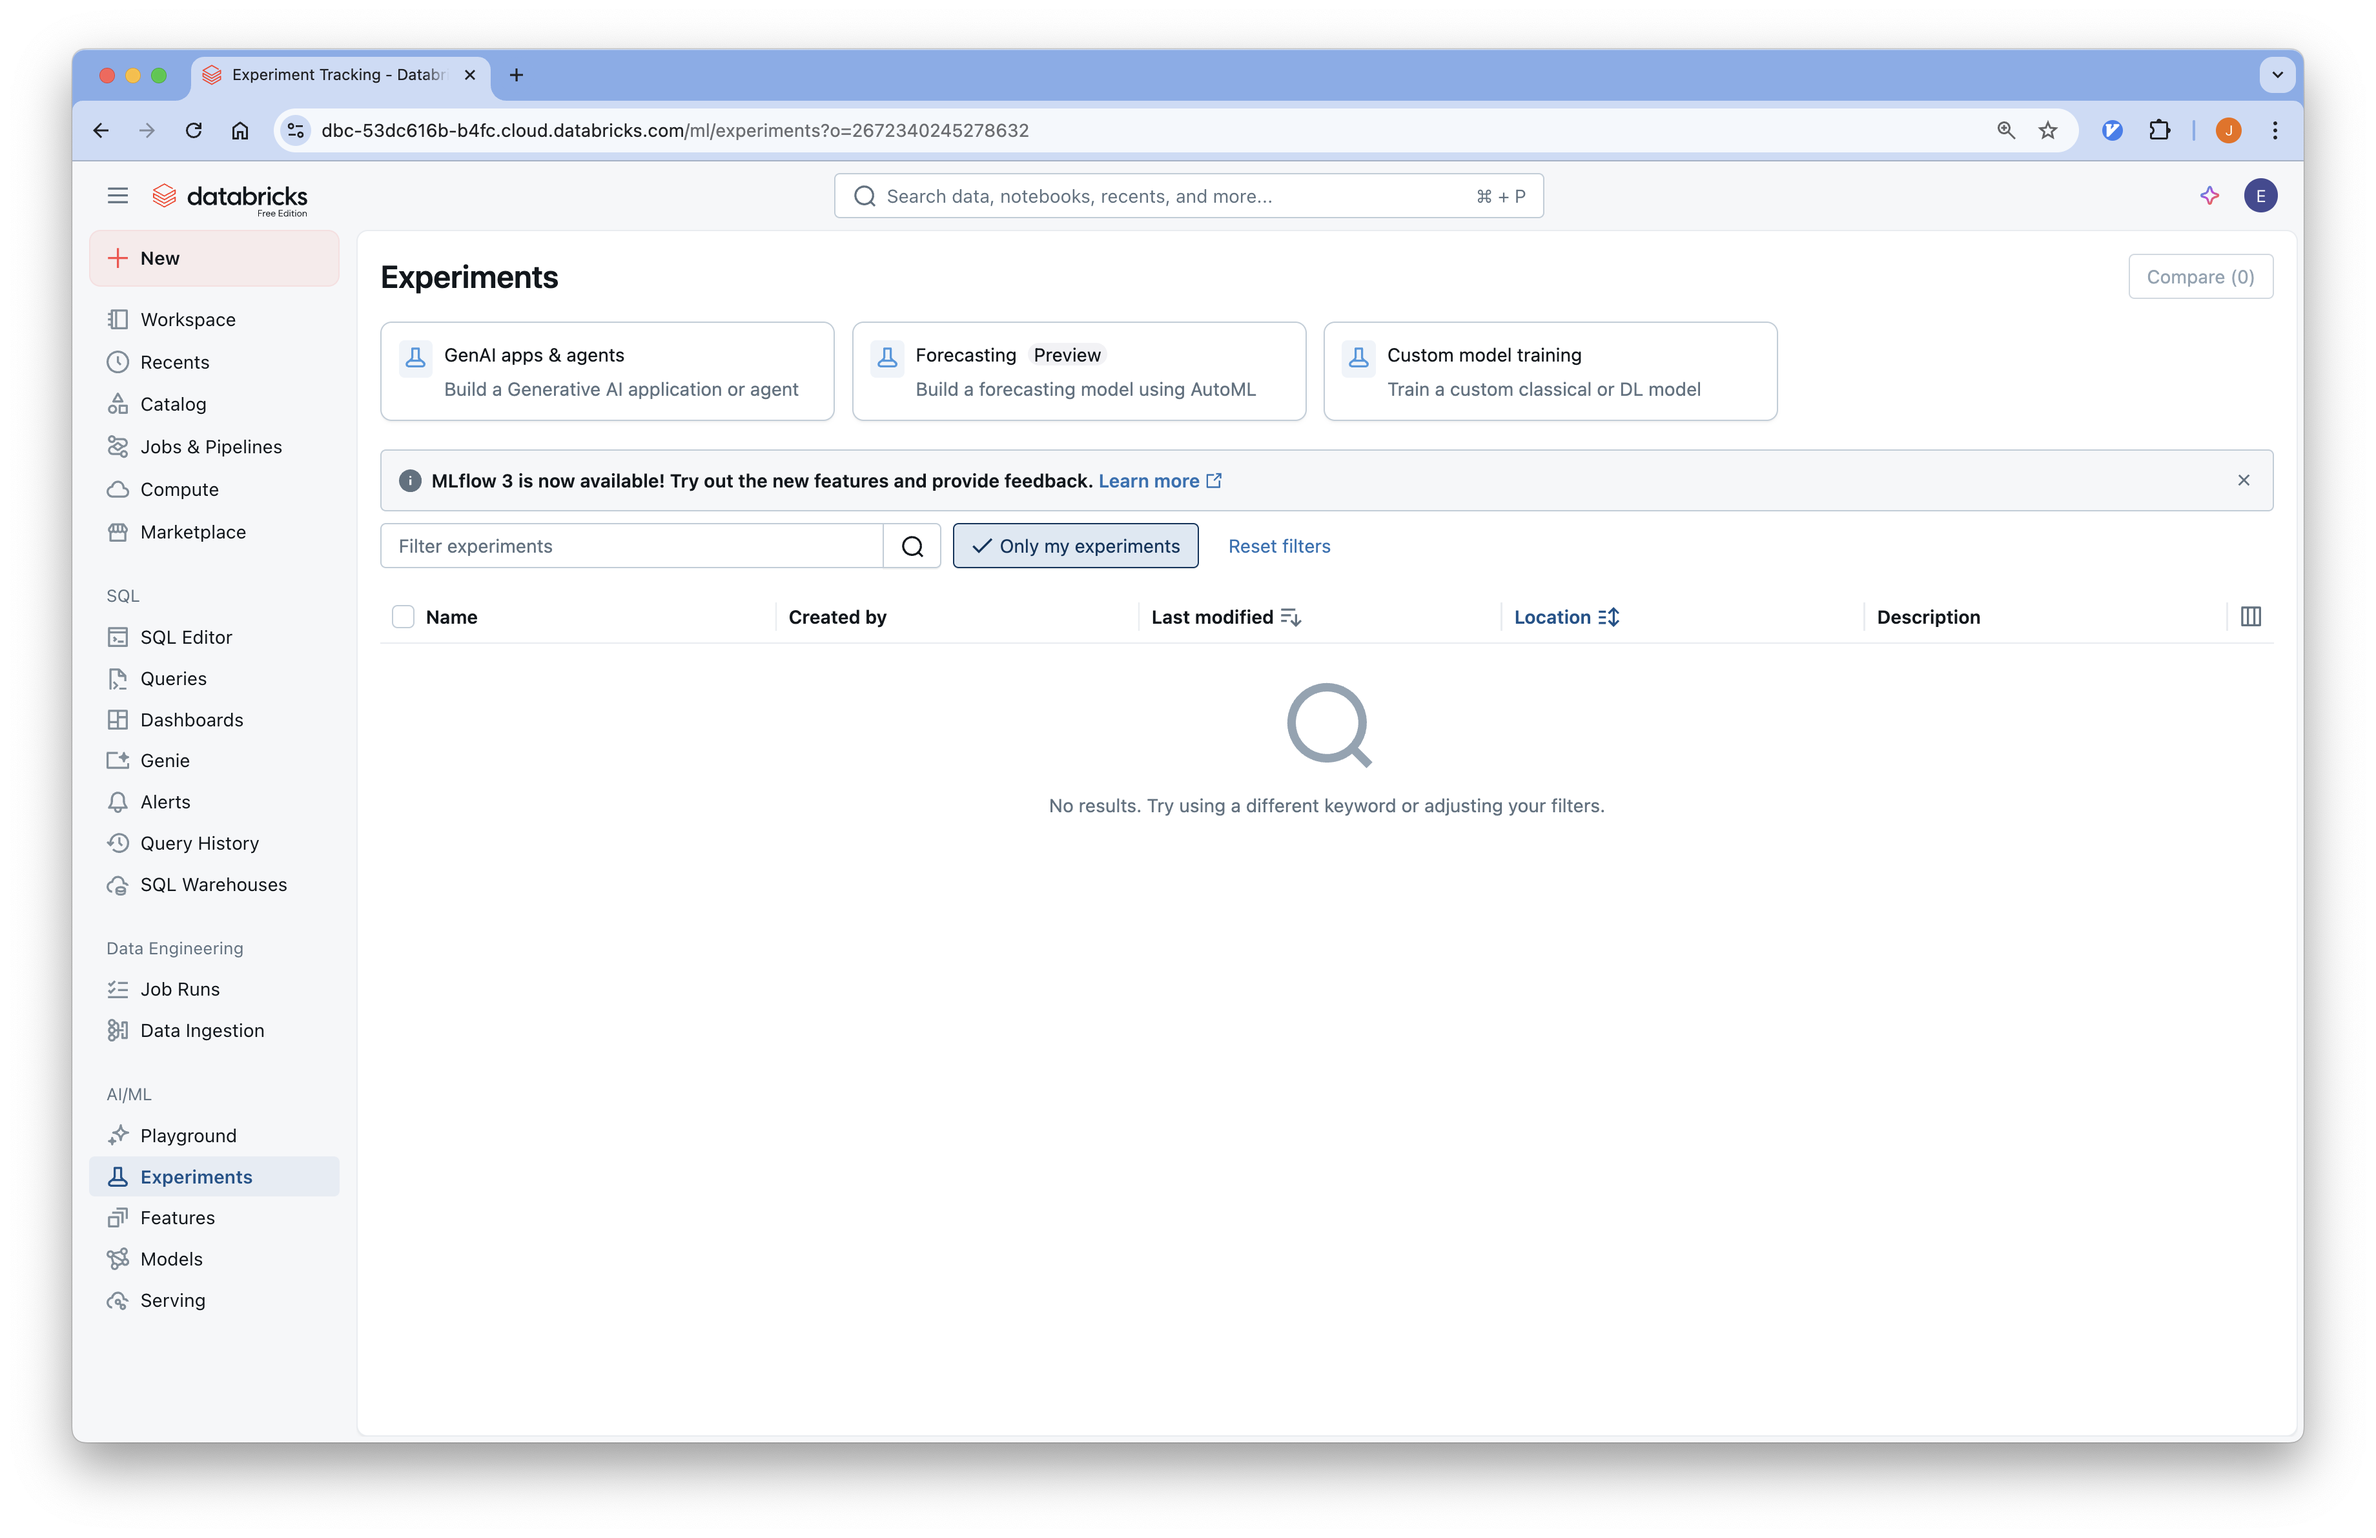
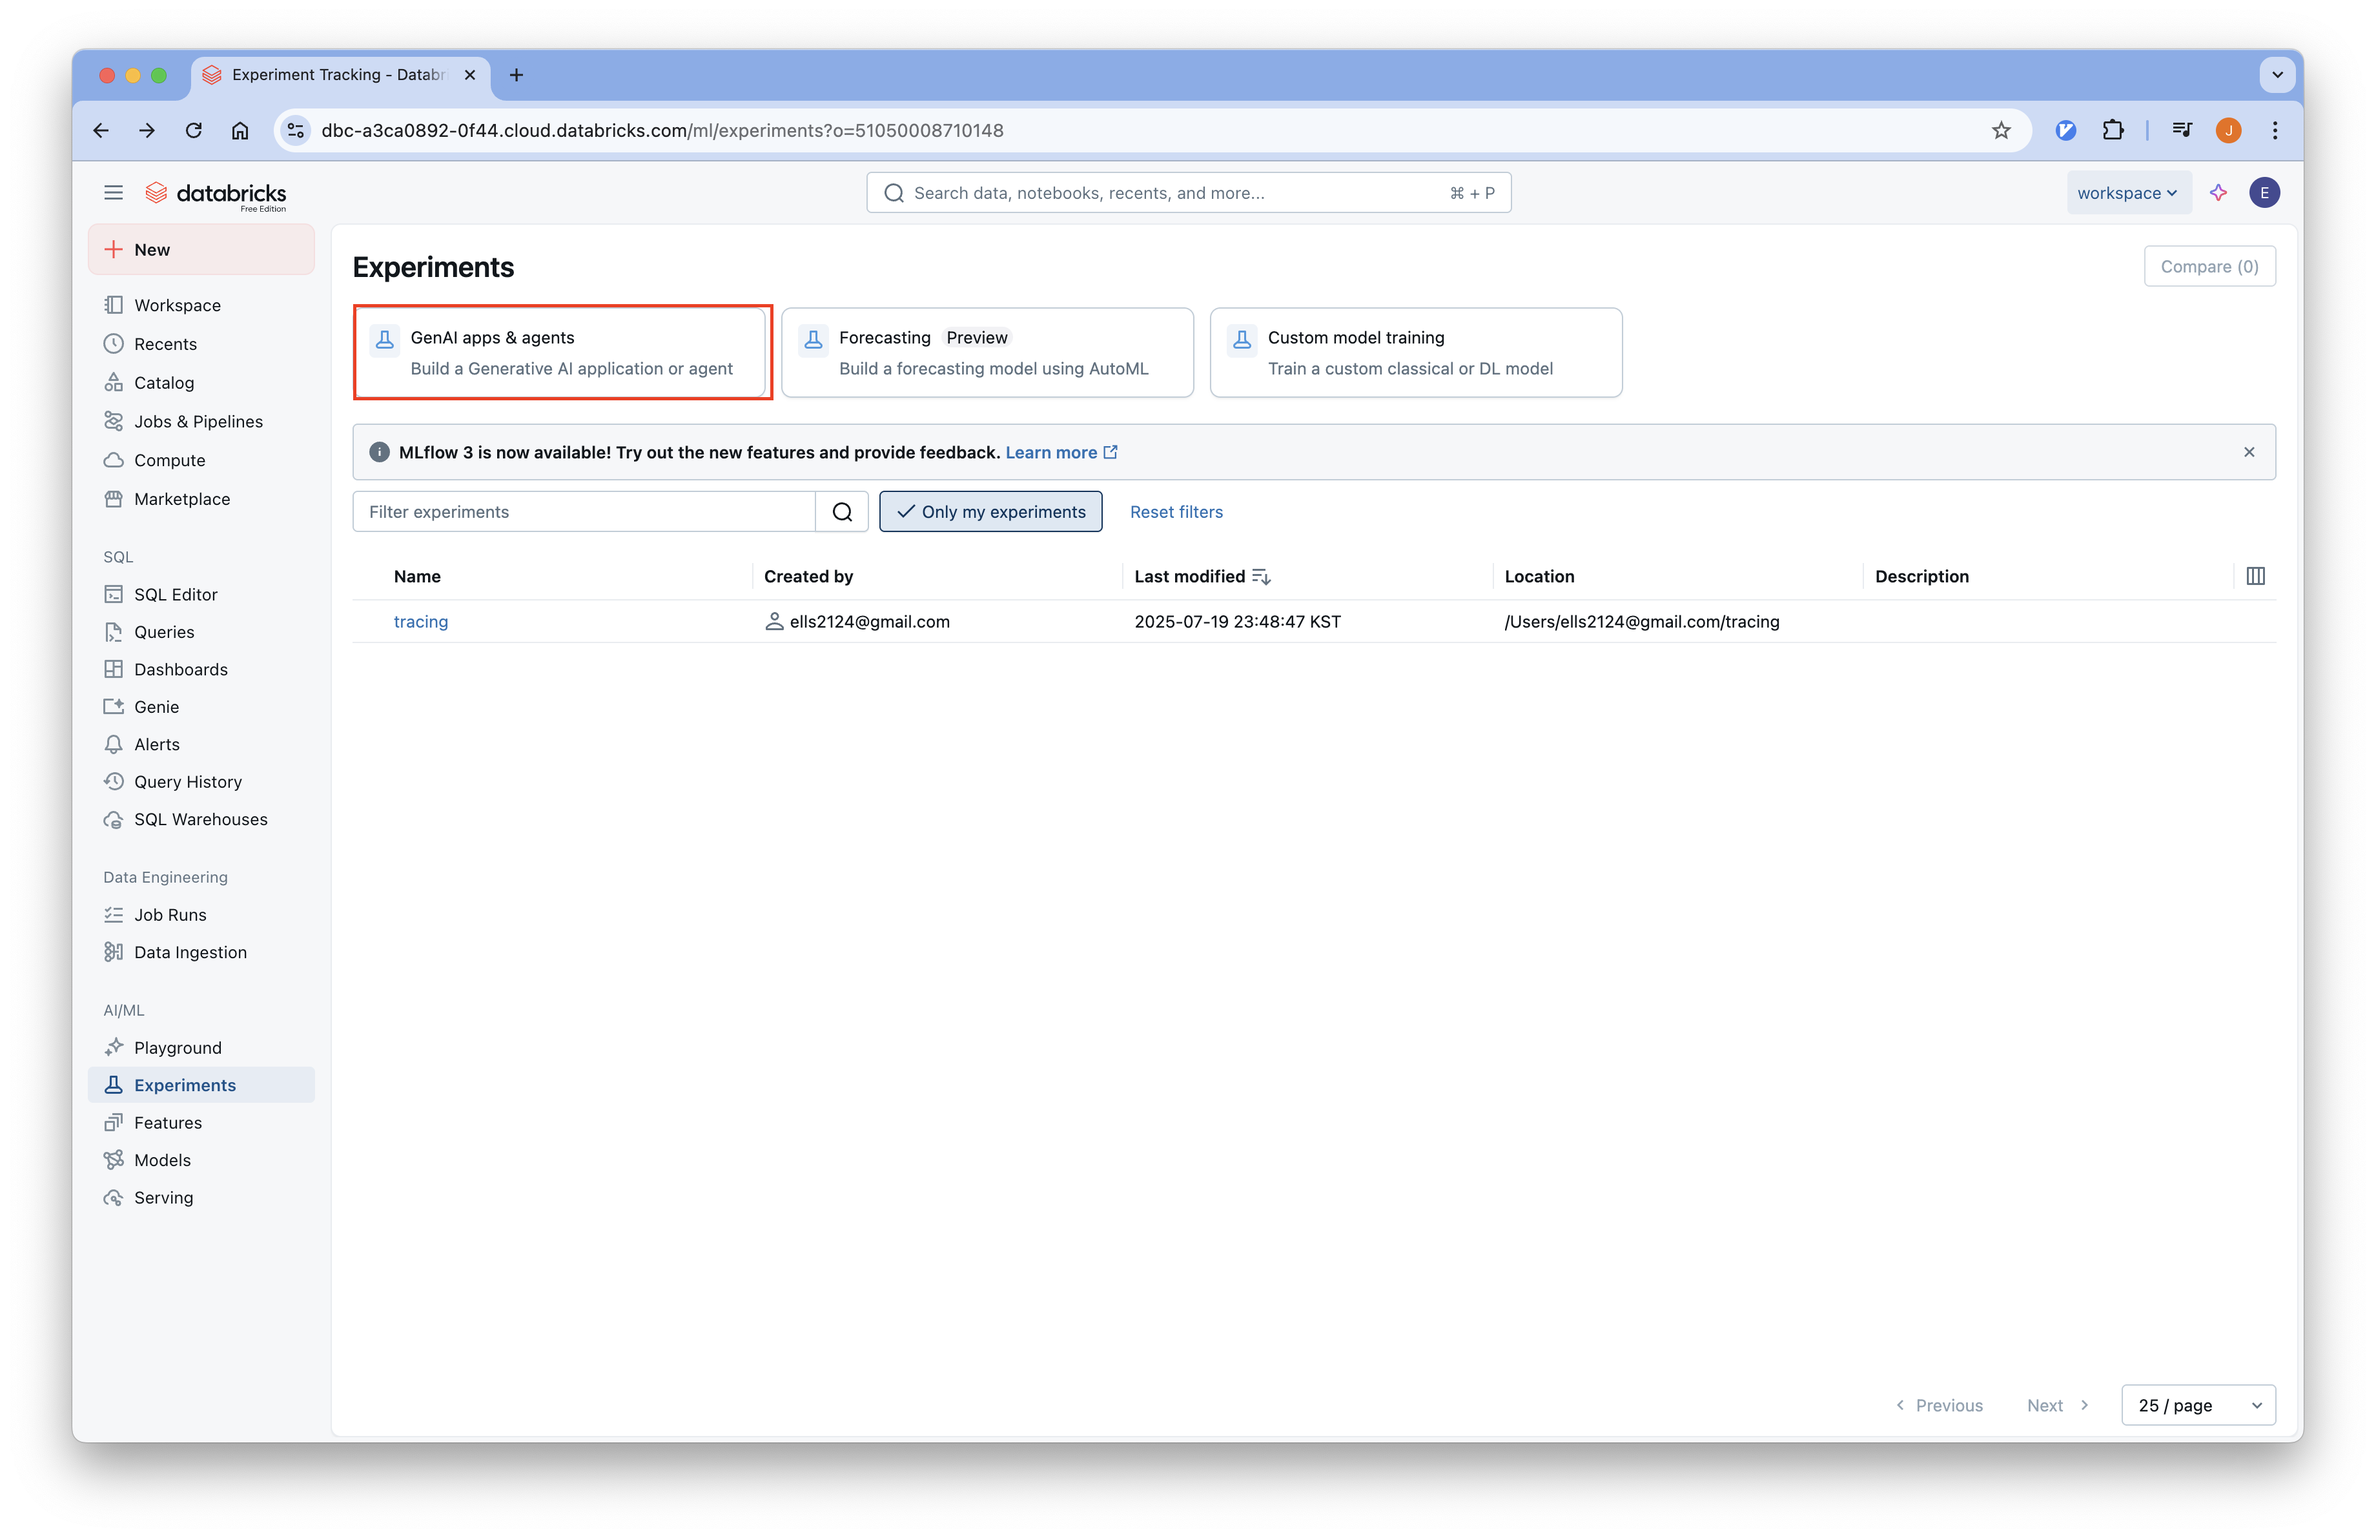
update databricks_mlflow parts

diff --git a/docs/src/pages/index.tsx b/docs/src/pages/index.tsx
@@ -20,7 +20,7 @@ function HomepageHeader() {
         <div className={styles.buttons}>
           <Link
             className="button button--secondary button--lg"
-            to="/docs/category/00-installation">
+            to="/docs/databricks_mlflow/installation/">
             Docusaurus Tutorial - 5min ⏱
           </Link>
         </div>

diff --git a/docs/docs/databricks_mlflow/tracing/index.md b/docs/docs/databricks_mlflow/tracing/index.md
@@ -5,35 +5,39 @@ sidebar_position: 2
 
 # 02-Tracing
 
-Databricks에서 제공하는 Managed MLflow를 사용하여 LangChain 애플리케이션의 실행 과정을 추적하고 모니터링할 수 있습니다.
-
 ## 개요
+Databricks에서 제공하는 Managed MLflow를 사용하여 LangChain 애플리케이션의 실행 과정을 추적하고 모니터링 할 수 있습니다.
 
-Databricks는 MLflow의 공식 Managed 서비스를 제공하는 회사 중 하나입니다. Databricks Free Edition을 통해 무료로 MLflow를 사용할 수 있으며, 별도의 서버 설정 없이 바로 사용할 수 있습니다.
+튜토리얼에서 사용하는 코드는
+[Github](https://github.com/Aiden-Jeon/llm-monitoring/blob/main/notebooks/databricks_mlflow/01_tracing.ipynb)
+에서 확인할 수 있습니다.
+
 
 ## Requirements
 
-### 1. Databricks 계정 설정
-
-:::info
-  [Databricks MLflow 설치 가이드](../installation/index.md)를 참고해 Databricks 계정을 설정합니다.
-:::
-
-
-### 2. 환경 변수 설정
+### 환경 변수 설정
 
 프로젝트 루트에 `.env` 파일을 생성하고 필요한 환경 변수를 설정합니다.
-- Databricks Mlflow 를 사용하기 위한 환경 변수
-- LLM을 사용하기 위한 환경 변수
-- Tavily를 사용하기 위한 환경 변수
+환경 변수는 3가지 섹션으로 구성되어 있습니다.
+
+1. Databricks Mlflow 를 사용하기 위한 환경 변수
+    :::info
+    [Databricks MLflow API Key 발급](../installation/#api-key-발급)를 참고해 해 토큰들을 받습니다..
+    :::
+2. Tavily를 사용하기 위한 환경 변수
+    :::info
+    Tavily API 키는 [Tavily Key 발급](../../prerequisitres/tavily/index.md)를 참고해 발급 받을 수 있습니다.
+    :::
+3. LLM을 사용하기 위한 환경 변수
+
 
 ```bash
 # DATABRICKS MLFLOW
-DATABRICKS_HOST="https://<UNIQUE_ID>.cloud.databricks.com"
-DATABRICKS_TOKEN="<redacted>"
-MLFLOW_TRACKING_URI="databricks"
-MLFLOW_REGISTRY_URI="databricks-uc"
-MLFLOW_EXPERIMENT_ID="<redacted>"
+DATABRICKS_TOKEN=<redacted>
+DATABRICKS_HOST=https://<UNIQUE_ID>.cloud.databricks.com
+MLFLOW_TRACKING_URI=databricks
+MLFLOW_REGISTRY_URI=databricks-uc
+MLFLOW_EXPERIMENT_ID=<redacted>
 
 # LLM
 MODEL_NAME=gpt-3.5-turbo
@@ -100,14 +104,11 @@ from langchain_tavily import TavilySearch
 web_search_tool = TavilySearch(max_results=1)
 ```
 
-:::info
-  Tavily API 키는 [Tavily Key 발급](../../prerequisitres/tavily/index.md)를 참고해 발급 받을 수 있습니다.
-:::
 ### LangGraph 애플리케이션 구성
 
 #### Prompt
 
-RAG(Retrieval-Augmented Generation) 애플리케이션을 위한 프롬프트를 정의합니다:
+RAG(Retrieval-Augmented Generation) 애플리케이션을 위한 프롬프트를 정의합니다.
 
 ```python
 prompt = """You are a professor and expert in explaining complex topics in a way that is easy to understand. 
@@ -235,7 +236,7 @@ print(response["messages"][0].content)
 1. Databricks Workspace에 접속합니다.
 2. 왼쪽 사이드바에서 "Experiments" 탭을 클릭합니다.
 3. 생성한 experiment 에 들어가서 상단의 trace 탭을 선택하면 로깅된 trace 들을 확인할 수 있습니다.
-    ![img](./databricks_mlflow_0.png)
+    ![img](databricks_mlflow_0.png)
 4. 실행된 추적을 클릭하여 상세 정보를 확인할 수 있습니다.
-    ![img](./databricks_mlflow_1.png)
+    ![img](databricks_mlflow_1.png)
 5. 각 단계별 실행 시간, 입력/출력, 메타데이터 등을 확인할 수 있습니다.

diff --git a/docs/docs/databricks_mlflow/installation/index.md b/docs/docs/databricks_mlflow/installation/index.md
@@ -29,14 +29,36 @@ Free Edition 가입을 위해 [https://www.databricks.com/learn/free-edition](ht
 데이터브릭스에 접속하면 다음과 같은 화면이 나옵니다.
 ![img](databricks_mlflow_2.png)
 
-### Step 4: Expeirments Tab
-화면 왼쪽에서 Experiments 탭을 클릭해 mlflow 를 사용할 수 있습니다.
-![img](databricks_mlflow_3.png)
+
+## Experiment 설정
+
+1. Databricks Workspace에 접속합니다.
+2. 왼쪽 사이드바에서 "Experiments" 탭을 클릭합니다.
+3. GenAI apps & agents 을 선택합니다.
+    ![img](databricks_mlflow_3.png)
+4. 이름을 입력하고 experiement 를 생성합니다.
+    ![img](databricks_mlflow_4.png)
+5. 다음과 같이 llm 에서 사용하는 기능들이 활성화됩니다.
+    ![img](databricks_mlflow_5.png)
 
 ## API Key 발급
 
-데이터브릭스 워크스페이스에서 필요한 환경 변수들을 생성합니다.
-### Databricks Host
+데이터브릭스에 로깅을 하기 위한환경 변수들을 생성합니다.
+
+1. Develop Locally 의 View steps 를 선택합니다.
+    ![img](databricks_mlflow_6.png)
+2. Generate API Key 버튼을 눌러 API 키를 발급합니다.
+    ![img](databricks_mlflow_7.png)
+3. 발급된 environments 를 복사합니다.
+    ![img](databricks_mlflow_8.png)
+
+
+## Appendix
+### Log trace locally
+이미 Logging 이 되어서 처음 화면이 뜨지 않는 경우 다음과 같이 환경변수를 생성할 수 있습니다.
+![img](databricks_mlflow_9.png)
+
+### DATABRICKS HOST
 Databricks host 는 다음과 같은 규칙으로 설정됩니다.
 ```plaintext
 https://<UNIQUE_ID>.cloud.databricks.com
@@ -44,21 +66,11 @@ https://<UNIQUE_ID>.cloud.databricks.com
 예를 들어서 제가 생성한 workspace 의 URL 은 다음과 같습니다.
 - https://dbc-a3ca0892-0f44.cloud.databricks.com/
 
-### Experiment
-우선 실험을 로깅할 experiment 를 생성합니다.
-1. 우선 Experiments tab 에서 Custom model training 을 선택합니다.
-    ![img](databricks_mlflow_3.png)
-2. 이름을 입력하고 experiement 를 생성합니다.
-    ![img](databricks_mlflow_4.png)
-3. 오른쪽 위의 New run 버튼을 눌러 Experiment ID 를 확인합니다.
-    ![img](databricks_mlflow_5.png)
-
 ### DATABRICKS TOKEN
-다음으로 databricks token 을 발급받습니다.
+발급된 토큰을 확인하거나 토큰을 새로 발급하기 위해선 다음과 같이 확인할 수 있습니다.
 
 1. 오른쪽 프로필 아이콘을 클릭해 Settings 로 진입합니다.
-    ![img](databricks_mlflow_6.png)
 2. User > Developer > Access tokens 의 Manage 를 클릭합니다.
-    ![img](databricks_mlflow_7.png)
 3. Generate new token 을 눌러서 새로운 API Key 를 발급 받고 저장합니다.
-    ![img](databricks_mlflow_8.png)
+4. 해당 Token 는 이후 `DATABRICKS_TOKEN` 환경 변수에서 사용됩니다.
+![img](databricks_mlflow_10.png)
